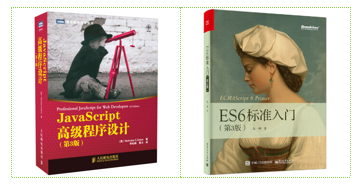
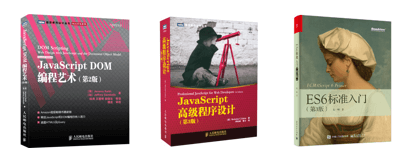
1. U 新增 JS DOM编程艺术分类

diff --git a/README.md b/README.md
@@ -14,7 +14,8 @@
 
 ## JS/ES6
 ![js相关书籍](./src/images/js_es6.png)
-- [JS高程3](./src/js_es6/js高程3/JS高程3.md)
+  [JavaScript DOM编程艺术(第二版本)](./src/js_es6/js_dom编程艺术/js_dom编程艺术.md)
+- [JavaScript高级程序设计(第三版)](./src/js_es6/js高程3/JS高程3.md)
 - [es6 - 1.let与const](./src/js_es6/es6_let与const.md)
 - [es6 - 2.声明变量的六种方法,顶层对象](./src/js_es6/es6_声明变量的六种方法_顶层对象.md)
 - [es6 - 3.解构赋值](./src/js_es6/es6_解构赋值.md)

diff --git a/src/js_es6/js_dom编程艺术/js_dom编程艺术.md b/src/js_es6/js_dom编程艺术/js_dom编程艺术.md
@@ -1,0 +1,3 @@
+
+## JavaScript DOM编程艺术(第二版)笔记
+
